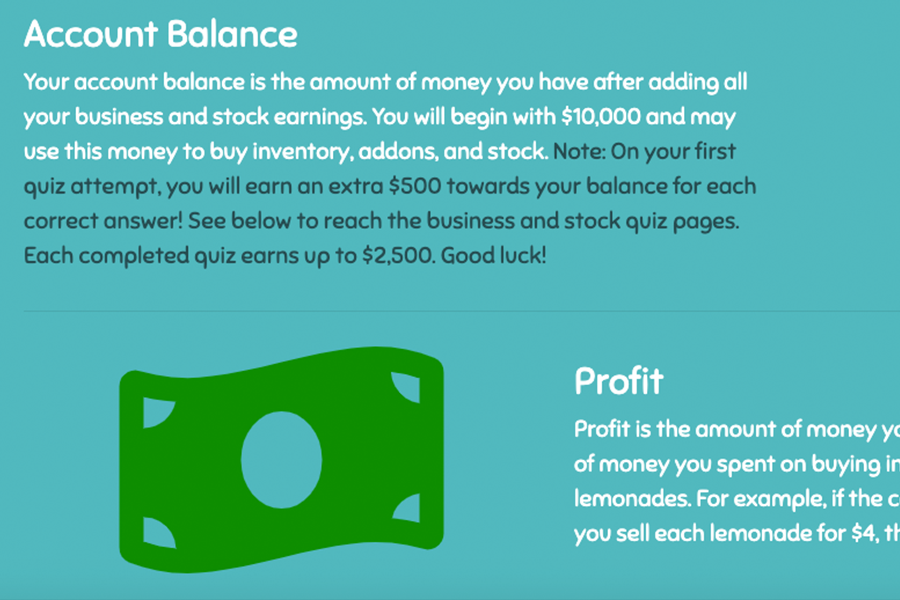
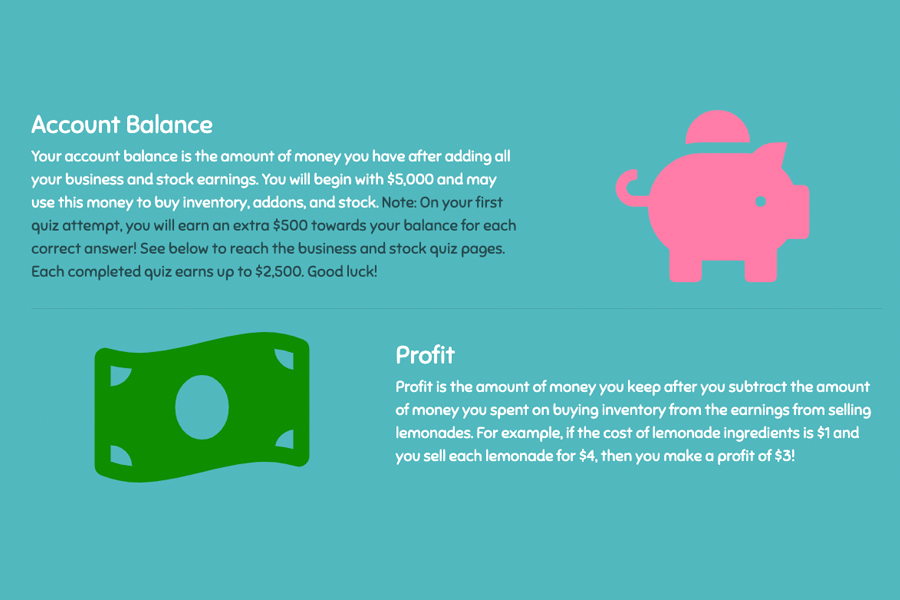
worked on styling

diff --git a/src/main/resources/static/css/custom.css b/src/main/resources/static/css/custom.css
@@ -61,6 +61,10 @@ ul li a.nav-link:hover,
 .navbar-toggler-icon:hover {
     color: var(--primary-gold-color);
 }
+.nav-kid-invest:hover {
+    text-shadow: 1px 0 0 #fff, -1px 0 0 #fff, 0 1px 0 #fff, 0 -1px 0 #fff, 1px 1px #fff, -1px -1px 0 #fff, 1px -1px 0 #fff, -1px 1px 0 #fff;
+}
+
 .navbar-toggler:focus,
 .buy-stock-btn:focus, .sell-stock-btn:focus,
 td>a:focus, .modal-buy-btn:focus, .register-btn:focus, .logout-btn:focus,
@@ -105,9 +109,15 @@ td>a:focus, .modal-buy-btn:focus, .register-btn:focus, .logout-btn:focus,
 .main-content>h3 {
     font-size: 3em;
 }
+.main-lemonade-icon {
+    width: 150px;
+    height: 150px;
+}
 .homepage-logo {
     color: var(--primary-gold-color);
     font-weight: 800;
+    text-shadow: 2px 0 0 var(--dark-cyan), -2px 0 0 var(--dark-cyan), 0 2px 0 var(--dark-cyan), 0 -2px 0 var(--dark-cyan), 1px 1px var(--dark-cyan), -1px -1px 0 var(--dark-cyan), 1px -1px 0 var(--dark-cyan), -1px 1px 0 var(--dark-cyan);
+
 }
 .top-btn {
     background-color: var(--primary-gold-color);
@@ -628,8 +638,10 @@ input[type="text"].grocery-input, input[type="number"].grocery-input {
 }
 .puffy-title {
     font-weight: 600;
-    color: var(--dark-cyan);
+    /*color: var(--dark-cyan);*/
+    color: #ffb205;
     font-size: 10vh;
+    text-shadow: 2px 0 0 var(--dark-cyan), -2px 0 0 var(--dark-cyan), 0 2px 0 var(--dark-cyan), 0 -2px 0 var(--dark-cyan), 1px 1px var(--dark-cyan), -1px -1px 0 var(--dark-cyan), 1px -1px 0 var(--dark-cyan), -1px 1px 0 var(--dark-cyan);
 }
 .highlight{
     color: var(--dark-cyan)

diff --git a/src/main/resources/templates/learning/learning.html b/src/main/resources/templates/learning/learning.html
@@ -24,7 +24,7 @@
         <div class="row featurette">
             <div class="col-md-7 d-flex flex-column justify-content-center">
                 <h2>Account Balance</h2>
-                <p class="lead">Your account balance is the amount of money you have after adding all your business and stock earnings. You will begin with $10,000 and may use this money to buy inventory, addons, and stock. <span class="highlight">Note: On your first quiz attempt, you will earn an extra $500 towards your balance for each correct answer! See below to reach the business and stock quiz pages. Each completed quiz earns up to $2,500. Good luck!</span></p>
+                <p class="lead">Your account balance is the amount of money you have after adding all your business and stock earnings. You will begin with $5,000 and may use this money to buy inventory, addons, and stock. <span class="highlight">Note: On your first quiz attempt, you will earn an extra $500 towards your balance for each correct answer! See below to reach the business and stock quiz pages. Each completed quiz earns up to $2,500. Good luck!</span></p>
             </div>
             <div class="col-md-5 d-flex justify-content-center">
                 <h2><i class="fas fa-piggy-bank fa-7x pink1"></i></i></h2>

diff --git a/src/main/resources/templates/index.html b/src/main/resources/templates/index.html
@@ -6,6 +6,7 @@
 <div th:include="partials/fragments :: nav"></div>
 <div class="page-content index-bg d-flex flex-column align-items-center" id="top">
     <div class="container pt-2 pb-3 main-content d-flex flex-column align-items-center">
+        <img class="main-lemonade-icon pt-3" src="img/Lemonades/lemonade.png" alt="an image of a lemonade">
         <h1 class="mb-0 mc-heading">Welcome to <br><span class="homepage-logo">Kid Invest</span></h1>
         <h3 class="mc-slogan text-center">Nothing sour here, just money!</h3>
         <a href="/register" class="my-4">
@@ -60,7 +61,7 @@
         <div class="card desc-card text-center m-3 p-0">
             <div class="card-body">
                 <h3 class="card-title text-uppercase">Learn all about stocks and the business in our Learning Page
-                    </h3>
+                </h3>
             </div>
             <img src="img/screenshots/learning.png" class="card-img-top" alt="Stocks and business learning page">
         </div>

diff --git a/src/main/resources/templates/partials/fragments.html b/src/main/resources/templates/partials/fragments.html
@@ -24,11 +24,12 @@
 <!--NAVBAR START-->
 <th:block th:fragment="nav">
     <nav class="navbar navbar-expand-xl">
+        <img class="my-auto" style="width:35px; height: 35px" src="/img/Lemonades/lemonade.png" alt="lemonade logo">
         <th:block sec:authorize="!isAuthenticated()">
-            <a class="navbar-brand" href="/">Kid Invest</a>
+            <a class="navbar-brand nav-kid-invest" href="/">Kid Invest</a>
         </th:block>
         <th:block sec:authorize="isAuthenticated()">
-            <a class="navbar-brand" href="/profile">Kid Invest</a>
+            <a class="navbar-brand nav-kid-invest" href="/profile">Kid Invest</a>
         </th:block>
         <button class="navbar-toggler" type="button" data-toggle="collapse" data-target="#navbarNav"
                 aria-controls="navbarNav" aria-expanded="false" aria-label="Toggle navigation">

diff --git a/src/main/resources/templates/user/profile.html b/src/main/resources/templates/user/profile.html
@@ -9,12 +9,12 @@
 <div class="page-content">
     <div class="px-3 pt-3 pb-4">
         <div class="row ">
-            <h1 class="col-12 mb-0 text-center puffy-title">Manage Your Stocks!</h1>
+            <h1 class="col-12 mb-0 text-center puffy-title">View your investments!</h1>
         </div>
     </div>
     <div class="container">
         <div class="row d-flex align-items-center justify-content-between">
-            <div class="col mb-3 balance-container d-flex justify-content-center">
+            <div class="col ml-3 mb-3 balance-container d-flex justify-content-center">
                 <h1 class="mb-0 text-center" th:text="${user.getUsername()}">Charlie23</h1>
                 <img style="min-width: 48px" th:src="@{|assets/kids/kid-${characterId}.png|}" alt="user's sprite image">
             </div>

diff --git a/src/main/resources/templates/aboutus.html b/src/main/resources/templates/aboutus.html
@@ -6,7 +6,7 @@
 <div th:include="partials/fragments :: nav"></div>
 
 <div class="container text-center page-content">
-    <h2 class="display-3 mt-5 pt-5 mb-0 puffy-title">CREATORS OF KID INVEST</h2>
+    <h3 class="display-3 mt-5 pt-5 mb-0 puffy-title">CREATORS OF <br> KID INVEST</h3>
     <div class="d-flex justify-content-center align-items-start">
 
         <div class="container px-0 d-flex justify-content-center align-items-center">
